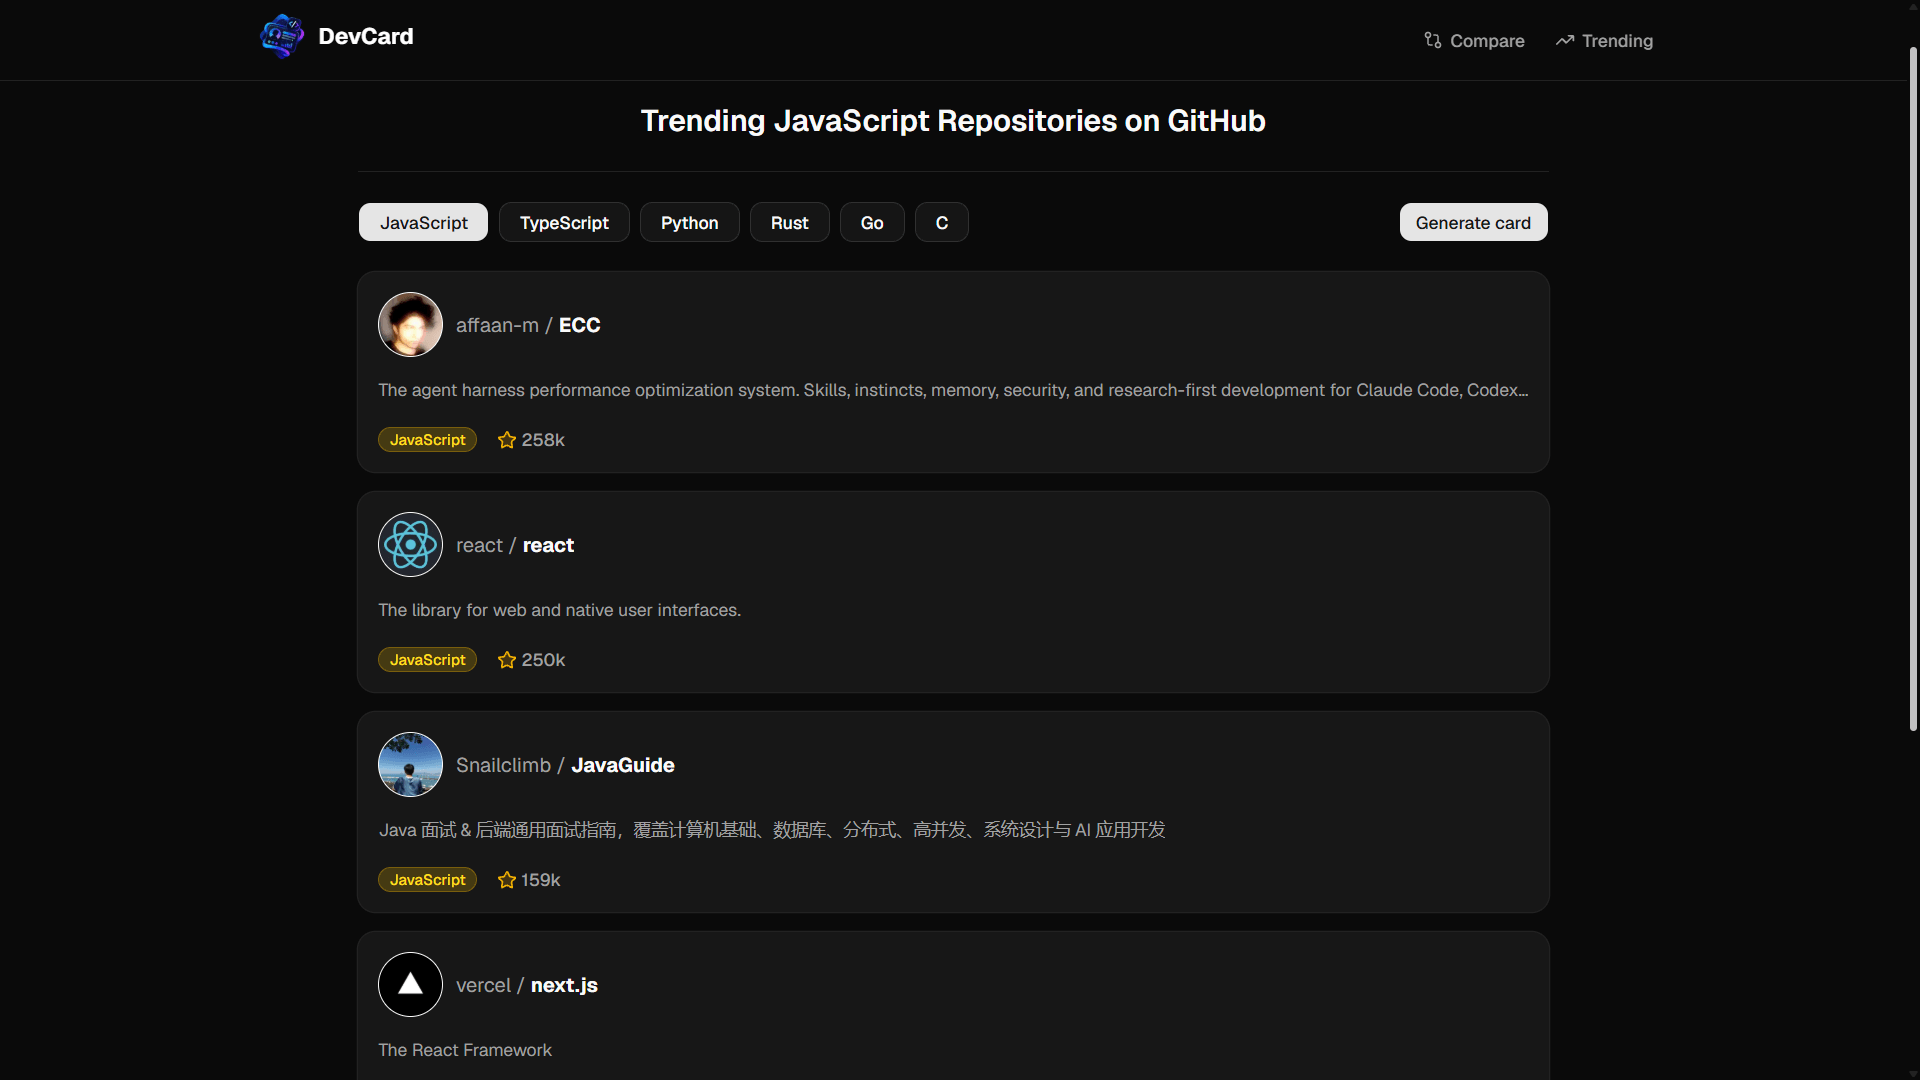
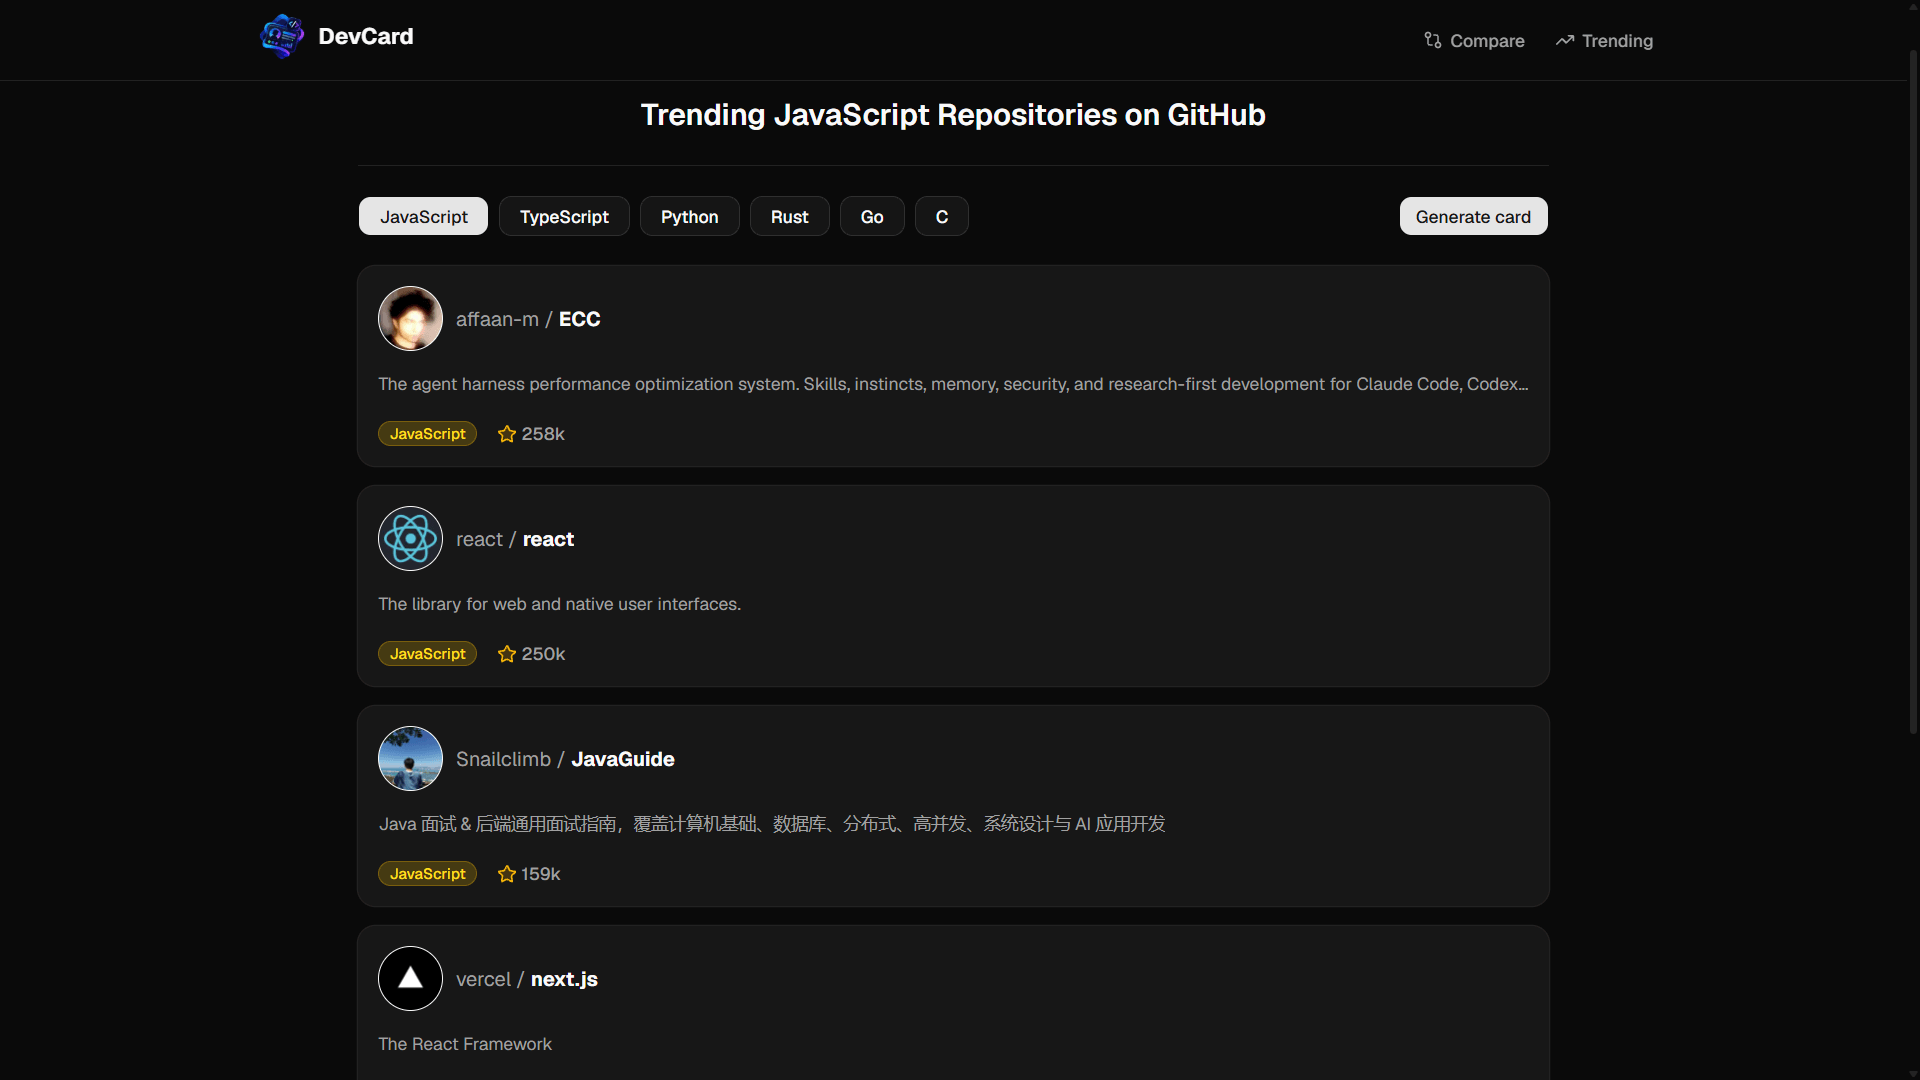
Update

diff --git a/README.md b/README.md
@@ -2,14 +2,19 @@
 
 > Search any GitHub username, inspect their stats and top repos, and export a shareable "dev card" as a PNG.
 
-![Next.js](https://img.shields.io/badge/Next.js-16-black?logo=next.js)
-![React](https://img.shields.io/badge/React-19-61DAFB?logo=react&logoColor=white)
-![TypeScript](https://img.shields.io/badge/TypeScript-strict-3178C6?logo=typescript&logoColor=white)
-![TanStack Query](https://img.shields.io/badge/TanStack%20Query-v5-FF4154?logo=reactquery&logoColor=white)
-![Tailwind CSS](https://img.shields.io/badge/Tailwind_CSS-v4-06B6D4?logo=tailwindcss&logoColor=white)
-![Deployed on Vercel](https://img.shields.io/badge/Deployed%20on-Vercel-black?logo=vercel)
+<div align="center">
+
+<img src="https://custom-icon-badges.demolab.com/badge/Next.js_16-000000?style=for-the-badge&logo=nextdotjs&logoColor=white" />
+<img src="https://custom-icon-badges.demolab.com/badge/React_19-20232A?style=for-the-badge&logo=react&logoColor=61DAFB" />
+<img src="https://custom-icon-badges.demolab.com/badge/TypeScript_Strict-3178C6?style=for-the-badge&logo=typescript&logoColor=white" />
+<img src="https://custom-icon-badges.demolab.com/badge/TanStack_Query_v5-FF4154?style=for-the-badge&logo=reactquery&logoColor=white" />
+<img src="https://custom-icon-badges.demolab.com/badge/Tailwind_CSS_v4-38B2AC?style=for-the-badge&logo=tailwindcss&logoColor=white" />
+<img src="https://custom-icon-badges.demolab.com/badge/Vercel_Deployed-000000?style=for-the-badge&logo=vercel&logoColor=white" />
+
+</div>
 
 **🔗 Live demo:** [github-dev-card-bypl.vercel.app](https://github-dev-card-bypl.vercel.app/)
+
 > If the link doesn't load in your region, try opening it with a VPN enabled.
 
 ## 🎥 Demo
@@ -69,17 +74,17 @@
 
 ## Tech Stack
 
-| Layer | Choice |
-|---|---|
-| Framework | [Next.js 16](https://nextjs.org) (App Router, Server Components, Server Actions) |
-| Language | TypeScript (strict mode) |
+| Layer                   | Choice                                                                              |
+| ----------------------- | ----------------------------------------------------------------------------------- |
+| Framework               | [Next.js 16](https://nextjs.org) (App Router, Server Components, Server Actions)    |
+| Language                | TypeScript (strict mode)                                                            |
 | Data fetching & caching | [TanStack React Query](https://tanstack.com/query) on top of Next.js Server Actions |
-| Styling / UI | Tailwind CSS v4, shadcn/ui, Base UI |
-| Theming | [next-themes](https://github.com/pacocoursey/next-themes) (Light/Dark/System) |
-| Forms & validation | react-hook-form + zod |
-| Card export | [html-to-image](https://github.com/bubkoo/html-to-image) (`toBlob` → PNG download) |
-| Data source | [GitHub REST API](https://docs.github.com/en/rest) |
-| Deployment | Vercel |
+| Styling / UI            | Tailwind CSS v4, shadcn/ui, Base UI                                                 |
+| Theming                 | [next-themes](https://github.com/pacocoursey/next-themes) (Light/Dark/System)       |
+| Forms & validation      | react-hook-form + zod                                                               |
+| Card export             | [html-to-image](https://github.com/bubkoo/html-to-image) (`toBlob` → PNG download)  |
+| Data source             | [GitHub REST API](https://docs.github.com/en/rest)                                  |
+| Deployment              | Vercel                                                                              |
 
 ## Why this architecture
 
@@ -128,9 +133,9 @@ Then open [http://localhost:3000](http://localhost:3000).
 
 ## Environment Variables
 
-| Variable | Required | Description |
-|---|---|---|
-| `GITHUB_TOKEN` | No | A [GitHub personal access token](https://github.com/settings/tokens) (no scopes needed for public data). Without it, requests use GitHub's unauthenticated rate limit (60/hour/IP). With it, the limit jumps to 5,000/hour, which is worth setting for local development if you're searching a lot of usernames back-to-back. |
+| Variable       | Required | Description                                                                                                                                                                                                                                                                                                                   |
+| -------------- | -------- | ----------------------------------------------------------------------------------------------------------------------------------------------------------------------------------------------------------------------------------------------------------------------------------------------------------------------------- |
+| `GITHUB_TOKEN` | No       | A [GitHub personal access token](https://github.com/settings/tokens) (no scopes needed for public data). Without it, requests use GitHub's unauthenticated rate limit (60/hour/IP). With it, the limit jumps to 5,000/hour, which is worth setting for local development if you're searching a lot of usernames back-to-back. |
 
 Create a `.env.local` file in the project root:
 
